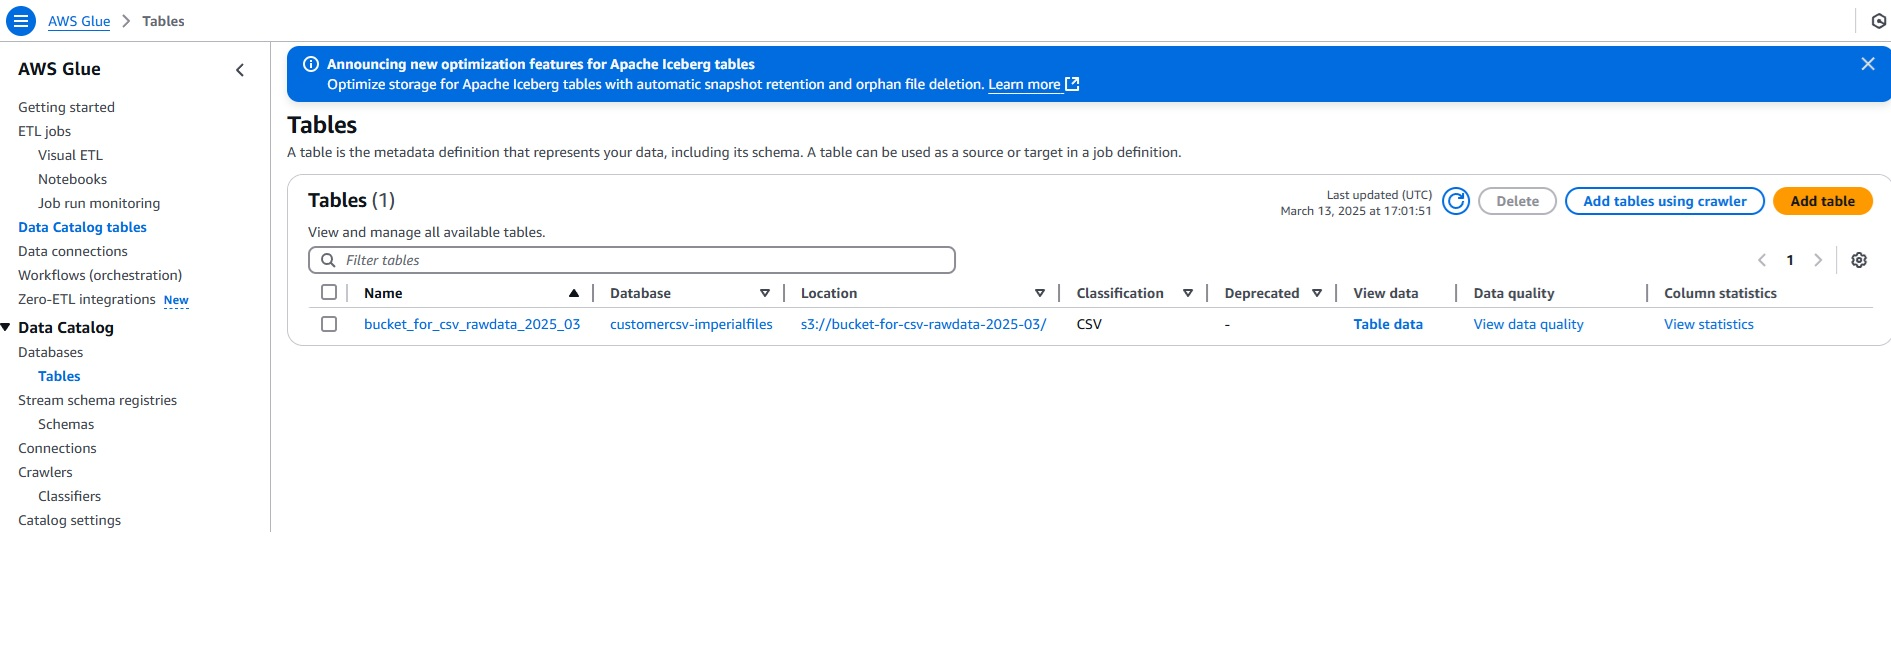
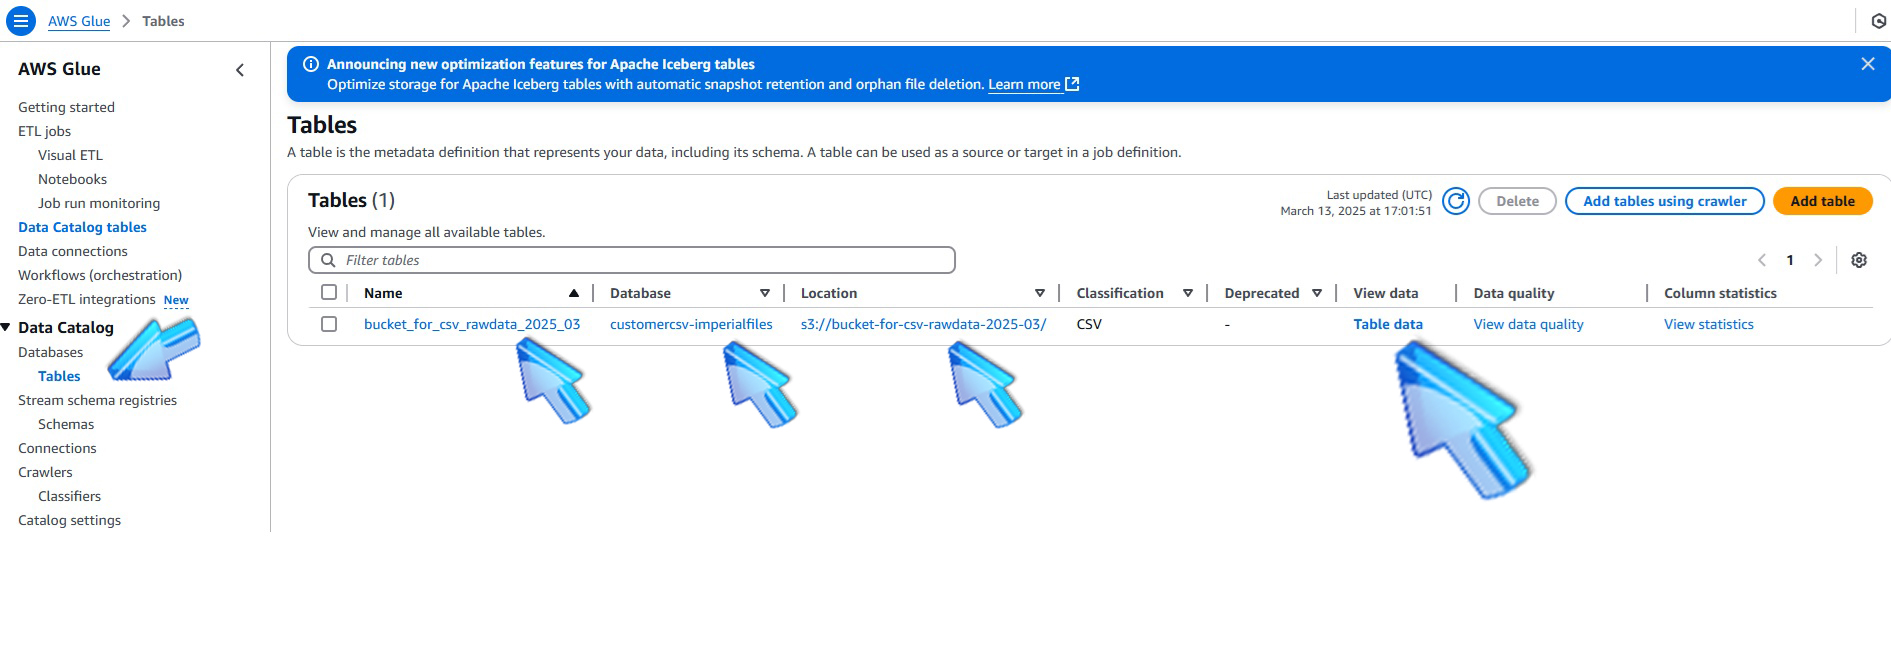
Update AWS Glue documentation images for crawler database tables and view data

diff --git a/thisisthelab.md b/thisisthelab.md
@@ -200,5 +200,16 @@
 ![AWS Run Crawler](./images/24a-AWSGlueCrawlerFinalScreen2.jpg)
 ![AWS Run Crawler Success](./images/25a-AWSGlueCrawlerRUNSuccess.jpg)
 
+# 3.7 - AWS Glue - Database Tables
+
+###### ![Brazil](https://github.com/Acheroniano/flag-icon/blob/master/png/16/country-4x3/br.png "Brazil") 
+###### No menu da esquerda clique em Database e Tables para visualizar informações do banco de dados criado.
+
+###### ![United States](https://github.com/Acheroniano/flag-icon/blob/master/png/16/country-4x3/us.png "United States") 
+###### On the left menu click on Database and Tables to view information about the database
+
+![AWS Glue Database Tables](./images/26a-AWSGlueCrawlerDatabaseTables.jpg)
+![AWS Glue Database View Data](./images/27a-AWSGlueCrawlerDatabaseTablesViewData.jpg)
+
 
 
